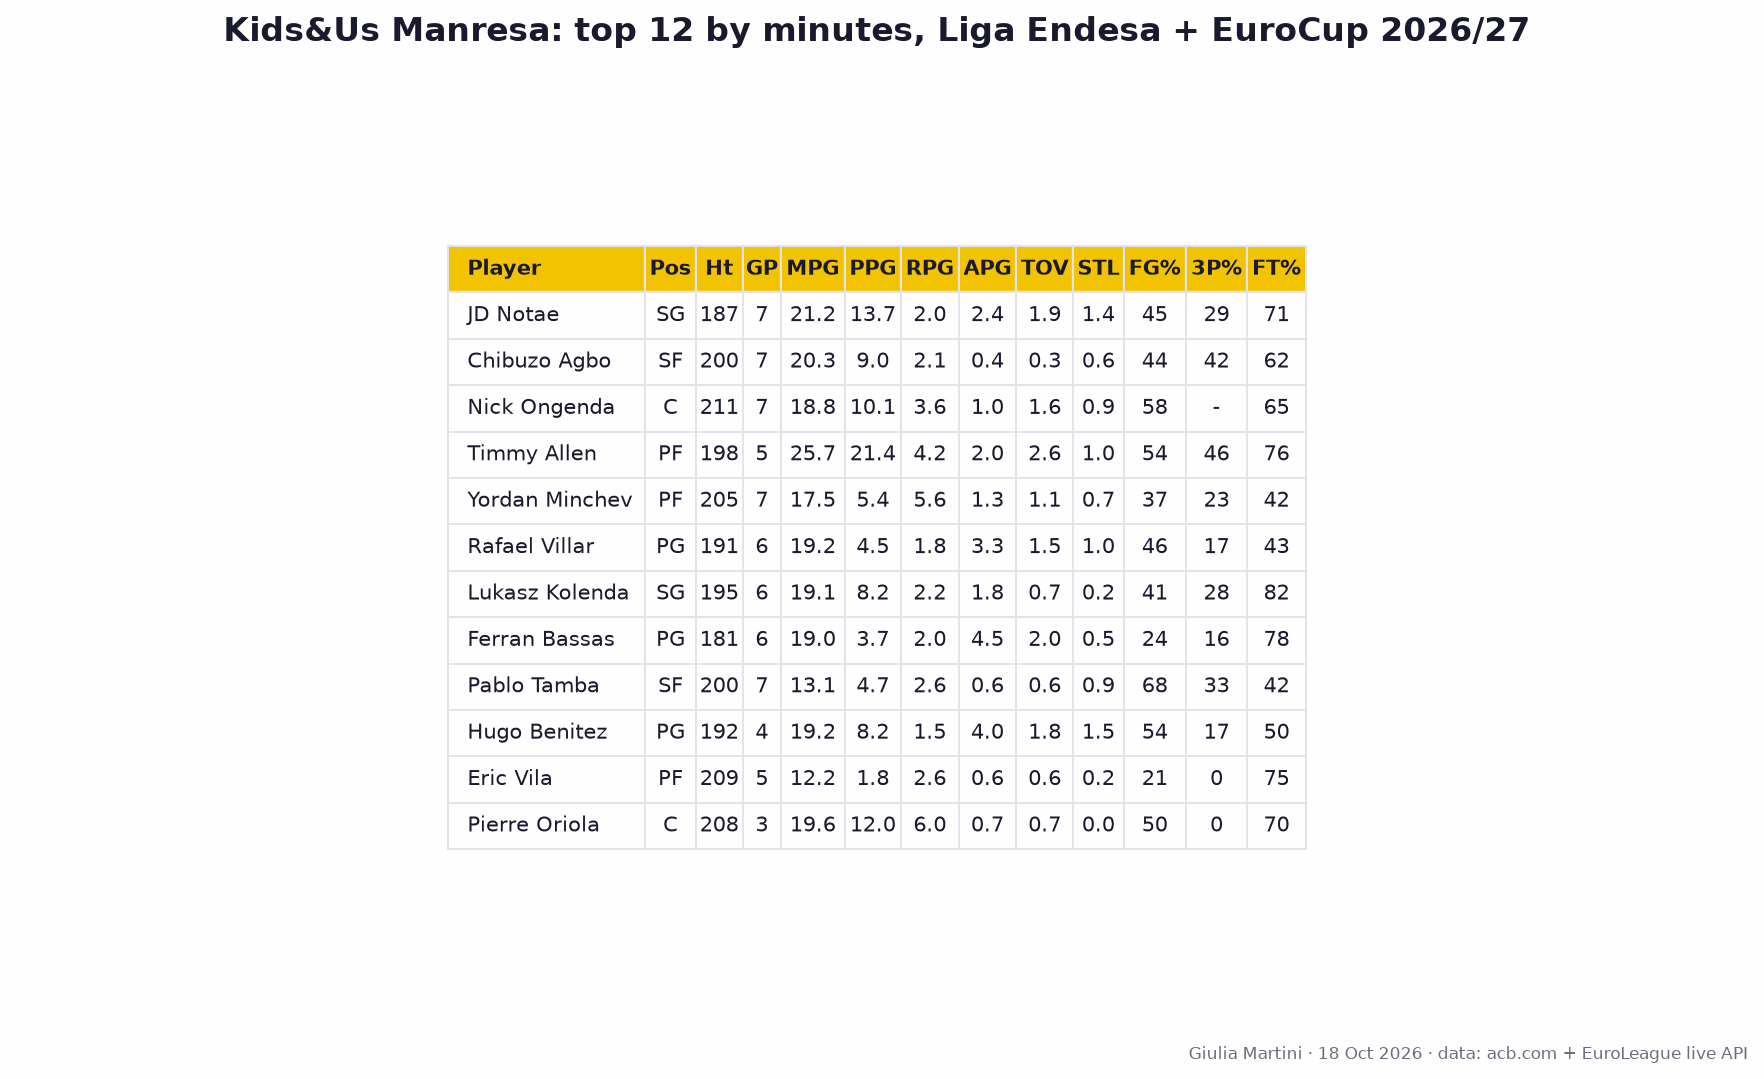
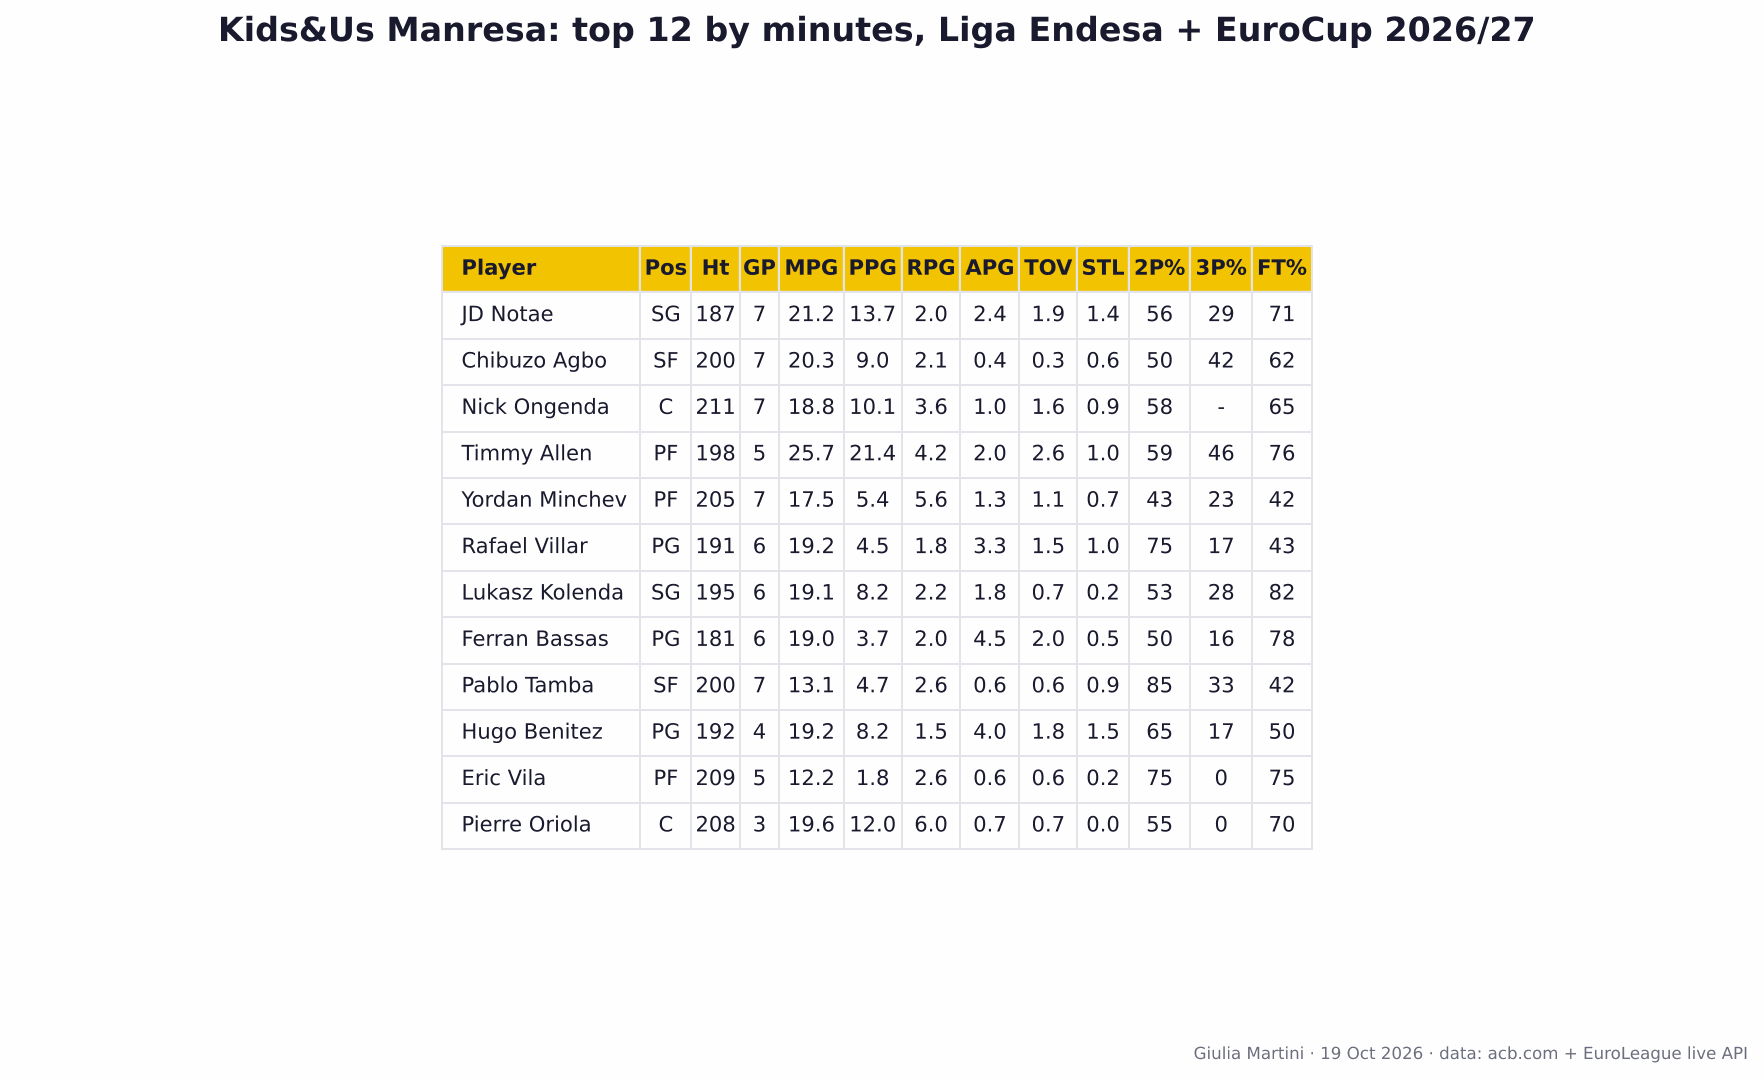
Manresa roster: 2P% (2PA) instead of FG% in the document table, the Top 12 figure and list
The document column is recomputed from the Liga Endesa and EuroCup box scores (percentages agree with the previous FG% figures; attempts per game come from the box scores, not Synergy).

Claude-Session: https://claude.ai/code/session_01W85mHE4j3ZM4N7byaGwLSw

diff --git a/notebooks/manresa_report.py b/notebooks/manresa_report.py
@@ -67,6 +67,8 @@ def player_table(box: pd.DataFrame, heights: pd.DataFrame) -> pd.DataFrame:
     for col in ("pts", "reb", "ast", "stl", "tov", "plus_minus"):
         table[f"{col}_pg"] = (table.oreb + table.dreb if col == "reb" else table[col]) / g
     table["fg_pct"] = (table.fg2m + table.fg3m) / (table.fg2a + table.fg3a) * 100
+    table["fg2_pct"] = table.fg2m / table.fg2a * 100
+    table["fg2a_pg"] = table.fg2a / table.gp
     table["fg3_pct"] = table.fg3m / table.fg3a * 100
     table["ft_pct"] = table.ftm / table.fta * 100
     table["fg3a_pg"] = table.fg3a / g
@@ -116,10 +118,10 @@ def aggregate_units(stints: pd.DataFrame) -> pd.DataFrame:
 
 def fig_players(table: pd.DataFrame, out: Path) -> Path:
     """Table figure of the top-10 players."""
-    cols = ["Player", "Pos", "Ht", "GP", "MPG", "PPG", "RPG", "APG", "TOV", "STL", "FG%", "3P%", "FT%"]
+    cols = ["Player", "Pos", "Ht", "GP", "MPG", "PPG", "RPG", "APG", "TOV", "STL", "2P%", "3P%", "FT%"]
     cells = [[r.player, r.role or "-", f"{r.height:.0f}" if pd.notna(r.height) else "-", int(r.gp),
               f"{r.mpg:.1f}", f"{r.pts_pg:.1f}", f"{r.reb_pg:.1f}", f"{r.ast_pg:.1f}", f"{r.tov_pg:.1f}",
-              f"{r.stl_pg:.1f}", f"{r.fg_pct:.0f}", f"{r.fg3_pct:.0f}" if r.fg3a else "-", f"{r.ft_pct:.0f}"]
+              f"{r.stl_pg:.1f}", f"{r.fg2_pct:.0f}", f"{r.fg3_pct:.0f}" if r.fg3a else "-", f"{r.ft_pct:.0f}"]
              for r in table.itertuples()]
     fig, ax = plt.subplots(figsize=(11, 0.42 * len(cells) + 1.4))
     ax.axis("off")
@@ -510,7 +512,7 @@ def write_readme(out: Path, title_date: str, games: pd.DataFrame, table: pd.Data
         ht = f"{r.height:.0f} cm" if pd.notna(r.height) else "height n/a"
         three = f"{r.fg3_pct:.0f}%" if r.fg3a else "-"
         L.append(f"- {img}**{r.player}** ({r.role}, {ht}, {int(r.gp)} GP): {r.mpg:.1f} min, **{r.pts_pg:.1f} pts**, "
-                 f"{r.reb_pg:.1f} reb, {r.ast_pg:.1f} ast, FG {r.fg_pct:.0f}% / 3P {three} / "
+                 f"{r.reb_pg:.1f} reb, {r.ast_pg:.1f} ast, 2P {r.fg2_pct:.0f}% / 3P {three} / "
                  f"FT {r.ft_pct:.0f}%; PPG {r.ppg_acb:.1f} ACB / {r.ppg_eur:.1f} EC. "
                  f"{tag(pd.Series(r._asdict())).capitalize()}.")
     L += ["", "## Lineups", "", "![lineups](lineups_Kids_Us_Manresa.png)", "",

diff --git a/weekly/opponent/matchup_Kids_Us_Manresa_scouting_before_2026-10-18/document.md b/weekly/opponent/matchup_Kids_Us_Manresa_scouting_before_2026-10-18/document.md
@@ -24,20 +24,20 @@ Based solely on the data (7 games, small sample), with no assessment of plays or
 
 Manresa most likely lose their primary scorer for Tuesday: Timmy Allen (21.4 pts) and Rafael Villar are both out. Players are ordered by position (PG, SG, SF, PF, C), then by minutes per game.
 
-| Player              | Pos | Ht (cm) | GP  | MIN  | PTS  | REB                           | AST                           | FG% (FGA) | 3P% (3PA) | FT% (FTA)                          | PPG ACB | PPG EC |
+| Player              | Pos | Ht (cm) | GP  | MIN  | PTS  | REB                           | AST                           | 2P% (2PA) | 3P% (3PA) | FT% (FTA)                          | PPG ACB | PPG EC |
 |---------------------|-----|---------|-----|------|------|-------------------------------|-------------------------------|-----------|-----------|------------------------------------|---------|--------|
-| Rafael Villar (OUT) | PG  | 191     | 6   | 19.2 | 4.5  | 1.8                           | 3.3                           | 46 (4.0)  | 17 (2.0)  | 43 (1.2)                           | 7.0     | 2.0    |
-| Hugo Benitez        | PG  | 192     | 4   | 19.2 | 8.2  | 1.5                           | <span class="mark">4.0</span> | 54 (6.5)  | 17 (1.5)  | <span class="mark">50</span> (2.0) | 7.3     | 11.0   |
-| Ferran Bassas       | PG  | 181     | 6   | 19.0 | 3.7  | 2.0                           | <span class="mark">4.5</span> | 24 (4.2)  | 16 (3.2)  | 78 (1.5)                           | 1.8     | 7.5    |
-| JD Notae            | SG  | 187     | 7   | 21.2 | 13.7 | 2.0                           | <span class="mark">2.4</span> | 45 (12.0) | 29 (5.0)  | 71 (2.0)                           | 13.0    | 14.7   |
-| Lukasz Kolenda      | SG  | 195     | 6   | 19.1 | 8.2  | 2.2                           | 1.8                           | 41 (6.2)  | 28 (3.0)  | 82 (2.8)                           | 10.3    | 6.0    |
-| Chibuzo Agbo        | SF  | 200     | 7   | 20.3 | 9.0  | 2.1                           | 0.4                           | 44 (6.9)  | 42 (5.4)  | 62 (1.1)                           | 10.2    | 7.3    |
-| Pablo Tamba         | SF  | 200     | 7   | 13.1 | 4.7  | 2.6                           | 0.6                           | 68 (2.6)  | 33 (0.9)  | <span class="mark">42</span> (1.7) | 4.5     | 5.0    |
-| Timmy Allen (OUT)   | PF  | 198     | 5   | 25.7 | 21.4 | 4.2                           | 2.0                           | 54 (12.6) | 46 (4.8)  | 76 (7.4)                           | 20.5    | 22.0   |
-| Yordan Minchev      | PF  | 205     | 7   | 17.5 | 5.4  | <span class="mark">5.6</span> | 1.3                           | 37 (5.9)  | 23 (1.9)  | <span class="mark">42</span> (1.7) | 7.2     | 3.0    |
-| Eric Vila           | PF  | 209     | 5   | 12.2 | 1.8  | 2.6                           | 0.6                           | 21 (2.8)  | 0 (2.0)   | 75 (0.8)                           | 1.7     | 2.0    |
-| Pierre Oriola       | C   | 208     | 3   | 19.6 | 12.0 | <span class="mark">6.0</span> | 0.7                           | 50 (7.3)  | 0 (0.7)   | 70 (6.7)                           | 11.5    | 13.0   |
-| Nick Ongenda        | C   | 211     | 7   | 18.8 | 10.1 | 3.6                           | 1.0                           | 58 (6.9)  | – (0.0)   | 65 (3.3)                           | 10.2    | 10.0   |
+| Rafael Villar (OUT) | PG  | 191     | 6   | 19.2 | 4.5  | 1.8                           | 3.3                           | 75 (2.0) | 17 (2.0)  | 43 (1.2)                           | 7.0     | 2.0    |
+| Hugo Benitez        | PG  | 192     | 4   | 19.2 | 8.2  | 1.5                           | <span class="mark">4.0</span> | 65 (5.0) | 17 (1.5)  | <span class="mark">50</span> (2.0) | 7.3     | 11.0   |
+| Ferran Bassas       | PG  | 181     | 6   | 19.0 | 3.7  | 2.0                           | <span class="mark">4.5</span> | 50 (1.0) | 16 (3.2)  | 78 (1.5)                           | 1.8     | 7.5    |
+| JD Notae            | SG  | 187     | 7   | 21.2 | 13.7 | 2.0                           | <span class="mark">2.4</span> | 56 (7.1) | 29 (5.0)  | 71 (2.0)                           | 13.0    | 14.7   |
+| Lukasz Kolenda      | SG  | 195     | 6   | 19.1 | 8.2  | 2.2                           | 1.8                           | 53 (3.2) | 28 (3.0)  | 82 (2.8)                           | 10.3    | 6.0    |
+| Chibuzo Agbo        | SF  | 200     | 7   | 20.3 | 9.0  | 2.1                           | 0.4                           | 50 (1.4) | 42 (5.4)  | 62 (1.1)                           | 10.2    | 7.3    |
+| Pablo Tamba         | SF  | 200     | 7   | 13.1 | 4.7  | 2.6                           | 0.6                           | 85 (1.9) | 33 (0.9)  | <span class="mark">42</span> (1.7) | 4.5     | 5.0    |
+| Timmy Allen (OUT)   | PF  | 198     | 5   | 25.7 | 21.4 | 4.2                           | 2.0                           | 59 (7.8) | 46 (4.8)  | 76 (7.4)                           | 20.5    | 22.0   |
+| Yordan Minchev      | PF  | 205     | 7   | 17.5 | 5.4  | <span class="mark">5.6</span> | 1.3                           | 43 (4.0) | 23 (1.9)  | <span class="mark">42</span> (1.7) | 7.2     | 3.0    |
+| Eric Vila           | PF  | 209     | 5   | 12.2 | 1.8  | 2.6                           | 0.6                           | 75 (0.8) | 0 (2.0)   | 75 (0.8)                           | 1.7     | 2.0    |
+| Pierre Oriola       | C   | 208     | 3   | 19.6 | 12.0 | <span class="mark">6.0</span> | 0.7                           | 55 (6.7) | 0 (0.7)   | 70 (6.7)                           | 11.5    | 13.0   |
+| Nick Ongenda        | C   | 211     | 7   | 18.8 | 10.1 | 3.6                           | 1.0                           | 58 (6.9) | – (0.0)   | 65 (3.3)                           | 10.2    | 10.0   |
 
 **Profiles**
 
@@ -55,7 +55,7 @@ Manresa most likely lose their primary scorer for Tuesday: Timmy Allen (21.4 pts
 
 - **Role players:** Villar (OUT), Kolenda, Tamba, Minchev, Vila, Ongenda
 
-Height in cm from the EuroLeague roster; position from ACB role / EuroLeague roster. Per-game stats combine Liga Endesa and EuroCup. Shooting attempts per game in brackets (Synergy team box score); percentages on low attempt volumes are not commented. Based solely on the data, with no assessment of plays or tactics.
+Height in cm from the EuroLeague roster; position from ACB role / EuroLeague roster. Per-game stats combine Liga Endesa and EuroCup. Shooting attempts per game in brackets (Synergy team box score; 2P% and 2PA computed from the Liga Endesa and EuroCup box scores); percentages on low attempt volumes are not commented. Based solely on the data, with no assessment of plays or tactics.
 
 ## Assists
 

diff --git a/reports/matchup_Kids_Us_Manresa_scouting_before_2026-10-18/README.md b/reports/matchup_Kids_Us_Manresa_scouting_before_2026-10-18/README.md
@@ -30,18 +30,18 @@
 
 Height in cm (EuroLeague roster), position from ACB role / EuroLeague roster. PPG split: Liga Endesa / EuroCup.
 
-- **JD Notae** (SG, 187 cm, 7 GP): 21.2 min, **13.7 pts**, 2.0 reb, 2.4 ast, FG 45% / 3P 29% / FT 71%; PPG 13.0 ACB / 14.7 EC. Volume shooter from 3 (5.0 att, 29%).
-- **Chibuzo Agbo** (SF, 200 cm, 7 GP): 20.3 min, **9.0 pts**, 2.1 reb, 0.4 ast, FG 44% / 3P 42% / FT 62%; PPG 10.2 ACB / 7.3 EC. Volume shooter from 3 (5.4 att, 42%).
-- **Nick Ongenda** (C, 211 cm, 7 GP): 18.8 min, **10.1 pts**, 3.6 reb, 1.0 ast, FG 58% / 3P - / FT 65%; PPG 10.2 ACB / 10.0 EC. Role player.
-- **Timmy Allen** (PF, 198 cm, 5 GP): 25.7 min, **21.4 pts**, 4.2 reb, 2.0 ast, FG 54% / 3P 46% / FT 76%; PPG 20.5 ACB / 22.0 EC. Primary scorer, volume shooter from 3 (4.8 att, 46%), turnover-prone (2.6).
-- **Yordan Minchev** (PF, 205 cm, 7 GP): 17.5 min, **5.4 pts**, 5.6 reb, 1.3 ast, FG 37% / 3P 23% / FT 42%; PPG 7.2 ACB / 3.0 EC. Role player.
-- **Rafael Villar** (PG, 191 cm, 6 GP): 19.2 min, **4.5 pts**, 1.8 reb, 3.3 ast, FG 46% / 3P 17% / FT 43%; PPG 7.0 ACB / 2.0 EC. Role player.
-- **Lukasz Kolenda** (SG, 195 cm, 6 GP): 19.1 min, **8.2 pts**, 2.2 reb, 1.8 ast, FG 41% / 3P 28% / FT 82%; PPG 10.3 ACB / 6.0 EC. Role player.
-- **Ferran Bassas** (PG, 181 cm, 6 GP): 19.0 min, **3.7 pts**, 2.0 reb, 4.5 ast, FG 24% / 3P 16% / FT 78%; PPG 1.8 ACB / 7.5 EC. Main creator.
-- **Pablo Tamba** (SF, 200 cm, 7 GP): 13.1 min, **4.7 pts**, 2.6 reb, 0.6 ast, FG 68% / 3P 33% / FT 42%; PPG 4.5 ACB / 5.0 EC. Role player.
-- **Hugo Benitez** (PG, 192 cm, 4 GP): 19.2 min, **8.2 pts**, 1.5 reb, 4.0 ast, FG 54% / 3P 17% / FT 50%; PPG 7.3 ACB / 11.0 EC. Main creator, weak at the line (50%).
-- **Eric Vila** (PF, 209 cm, 5 GP): 12.2 min, **1.8 pts**, 2.6 reb, 0.6 ast, FG 21% / 3P 0% / FT 75%; PPG 1.7 ACB / 2.0 EC. Role player.
-- **Pierre Oriola** (C, 208 cm, 3 GP): 19.6 min, **12.0 pts**, 6.0 reb, 0.7 ast, FG 50% / 3P 0% / FT 70%; PPG 11.5 ACB / 13.0 EC. Rebounder.
+- **JD Notae** (SG, 187 cm, 7 GP): 21.2 min, **13.7 pts**, 2.0 reb, 2.4 ast, 2P 56% / 3P 29% / FT 71%; PPG 13.0 ACB / 14.7 EC. Volume shooter from 3 (5.0 att, 29%).
+- **Chibuzo Agbo** (SF, 200 cm, 7 GP): 20.3 min, **9.0 pts**, 2.1 reb, 0.4 ast, 2P 50% / 3P 42% / FT 62%; PPG 10.2 ACB / 7.3 EC. Volume shooter from 3 (5.4 att, 42%).
+- **Nick Ongenda** (C, 211 cm, 7 GP): 18.8 min, **10.1 pts**, 3.6 reb, 1.0 ast, 2P 58% / 3P - / FT 65%; PPG 10.2 ACB / 10.0 EC. Role player.
+- **Timmy Allen** (PF, 198 cm, 5 GP): 25.7 min, **21.4 pts**, 4.2 reb, 2.0 ast, 2P 59% / 3P 46% / FT 76%; PPG 20.5 ACB / 22.0 EC. Primary scorer, volume shooter from 3 (4.8 att, 46%), turnover-prone (2.6).
+- **Yordan Minchev** (PF, 205 cm, 7 GP): 17.5 min, **5.4 pts**, 5.6 reb, 1.3 ast, 2P 43% / 3P 23% / FT 42%; PPG 7.2 ACB / 3.0 EC. Role player.
+- **Rafael Villar** (PG, 191 cm, 6 GP): 19.2 min, **4.5 pts**, 1.8 reb, 3.3 ast, 2P 75% / 3P 17% / FT 43%; PPG 7.0 ACB / 2.0 EC. Role player.
+- **Lukasz Kolenda** (SG, 195 cm, 6 GP): 19.1 min, **8.2 pts**, 2.2 reb, 1.8 ast, 2P 53% / 3P 28% / FT 82%; PPG 10.3 ACB / 6.0 EC. Role player.
+- **Ferran Bassas** (PG, 181 cm, 6 GP): 19.0 min, **3.7 pts**, 2.0 reb, 4.5 ast, 2P 50% / 3P 16% / FT 78%; PPG 1.8 ACB / 7.5 EC. Main creator.
+- **Pablo Tamba** (SF, 200 cm, 7 GP): 13.1 min, **4.7 pts**, 2.6 reb, 0.6 ast, 2P 85% / 3P 33% / FT 42%; PPG 4.5 ACB / 5.0 EC. Role player.
+- **Hugo Benitez** (PG, 192 cm, 4 GP): 19.2 min, **8.2 pts**, 1.5 reb, 4.0 ast, 2P 65% / 3P 17% / FT 50%; PPG 7.3 ACB / 11.0 EC. Main creator, weak at the line (50%).
+- **Eric Vila** (PF, 209 cm, 5 GP): 12.2 min, **1.8 pts**, 2.6 reb, 0.6 ast, 2P 75% / 3P 0% / FT 75%; PPG 1.7 ACB / 2.0 EC. Role player.
+- **Pierre Oriola** (C, 208 cm, 3 GP): 19.6 min, **12.0 pts**, 6.0 reb, 0.7 ast, 2P 55% / 3P 0% / FT 70%; PPG 11.5 ACB / 13.0 EC. Rebounder.
 
 ## Lineups
 
